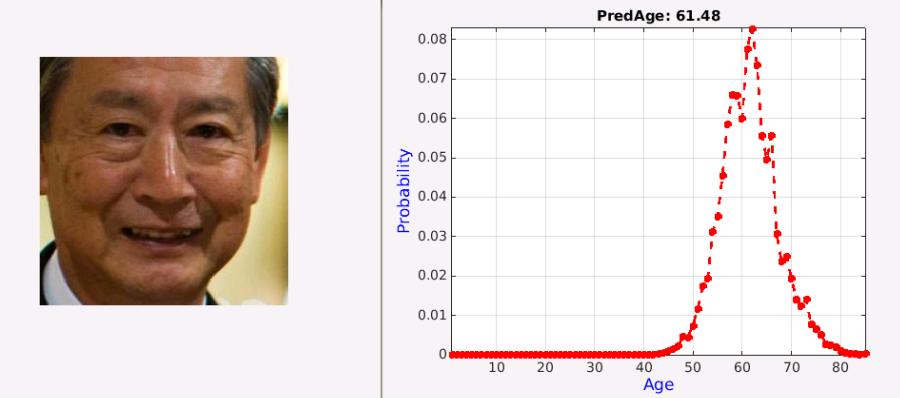
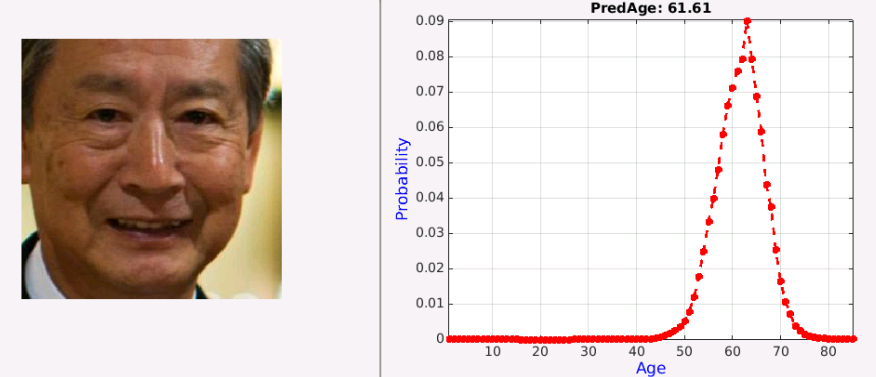
DLDL

diff --git a/age_demo.m b/age_demo.m
@@ -22,13 +22,13 @@ im = imresize(imt, [224,224]);
 
 data = bsxfun(@minus, single(imresize(im, net.meta.normalization.imageSize(1:2))),...
     reshape(net.meta.normalization.averageImage, [1,1,3]));
-
+data(:,:,:,2) = data(:,end:-1:1,:);
 %% forward 
 res = dldl_simplenn(net, gpuArray(data), [], [], ...
             'accumulate', 0, ...
             'mode', 'test', ...
             'conserveMemory', 1) ;
-pred_score = squeeze(gather(res(end).x));
+pred_score = squeeze(mean(gather(res(end).x),4));
 pred_age = (1:85)*pred_score;
 
 %% visialization
